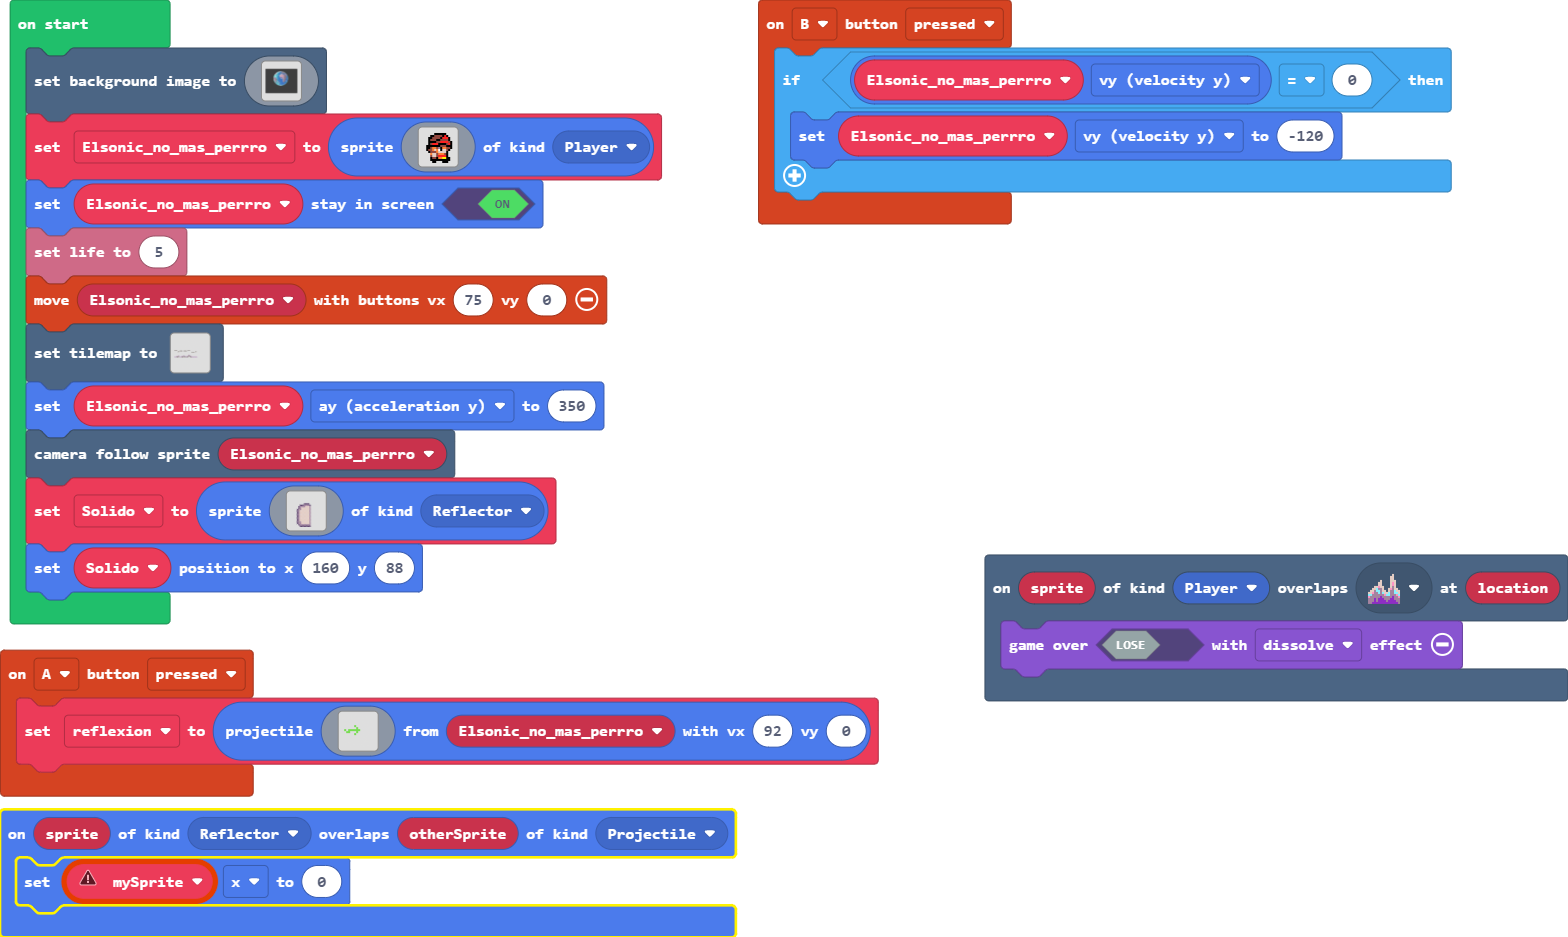
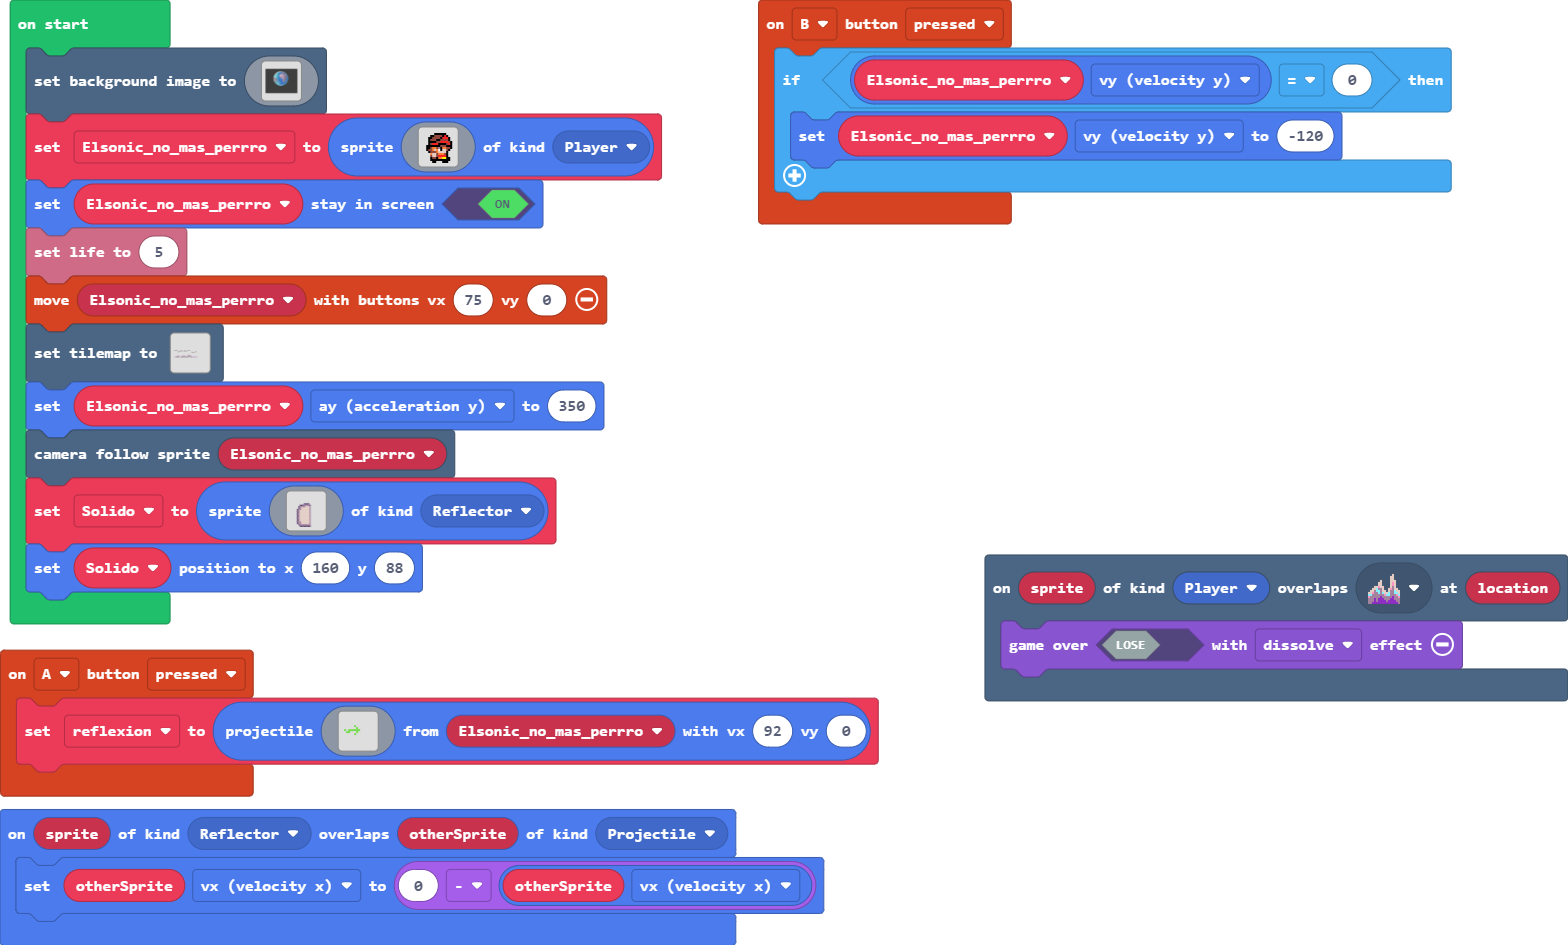
Update main.blocks, main.ts

Changed region(s): [[0.0, 0.0619, 0.5625, 1.0], [0.625, 0.588, 1.0, 0.7737], [0.5, 0.0619, 0.9062, 0.2476]]

diff --git a/main.ts b/main.ts
@@ -10,8 +10,7 @@ controller.B.onEvent(ControllerButtonEvent.Pressed, function () {
     }
 })
 sprites.onOverlap(SpriteKind.Reflector, SpriteKind.Projectile, function (sprite, otherSprite) {
-    let mySprite: Sprite = null
-    mySprite.x = 0
+    otherSprite.vx = 0 - otherSprite.vx
 })
 controller.A.onEvent(ControllerButtonEvent.Pressed, function () {
     reflexion = sprites.createProjectileFromSprite(img`
